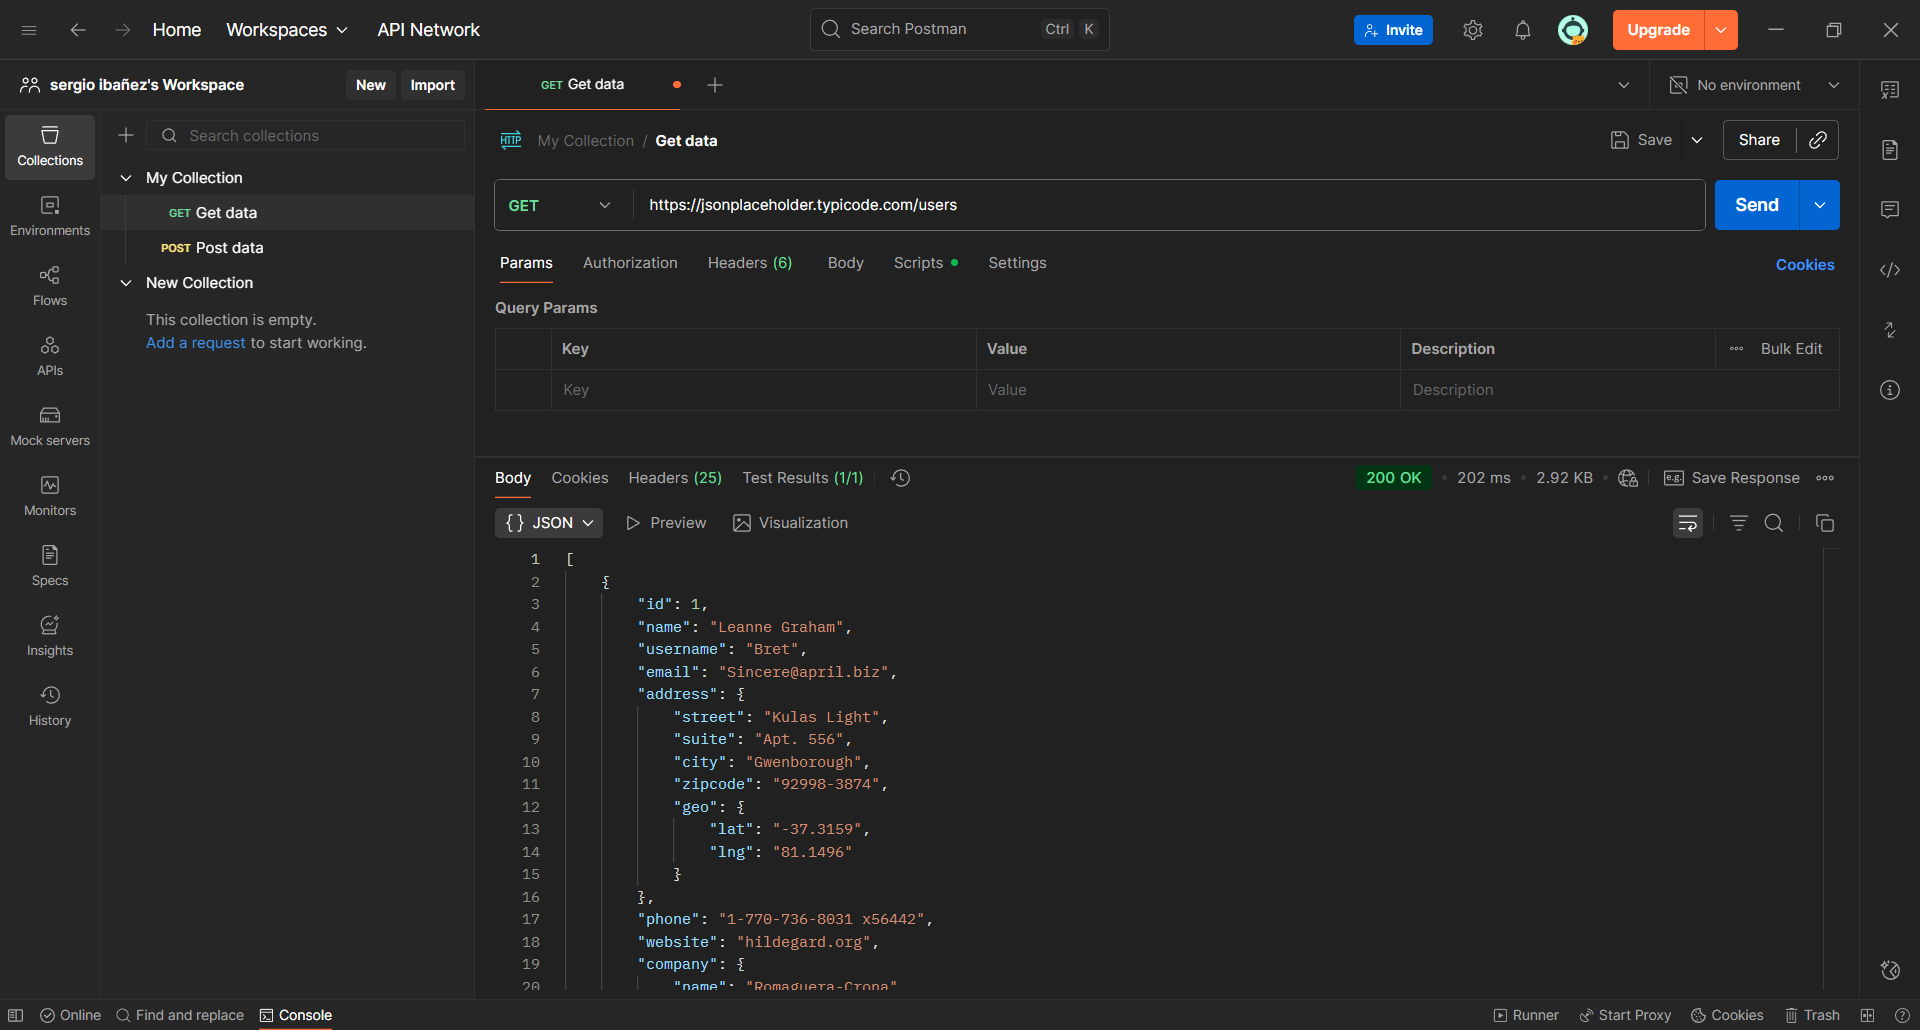
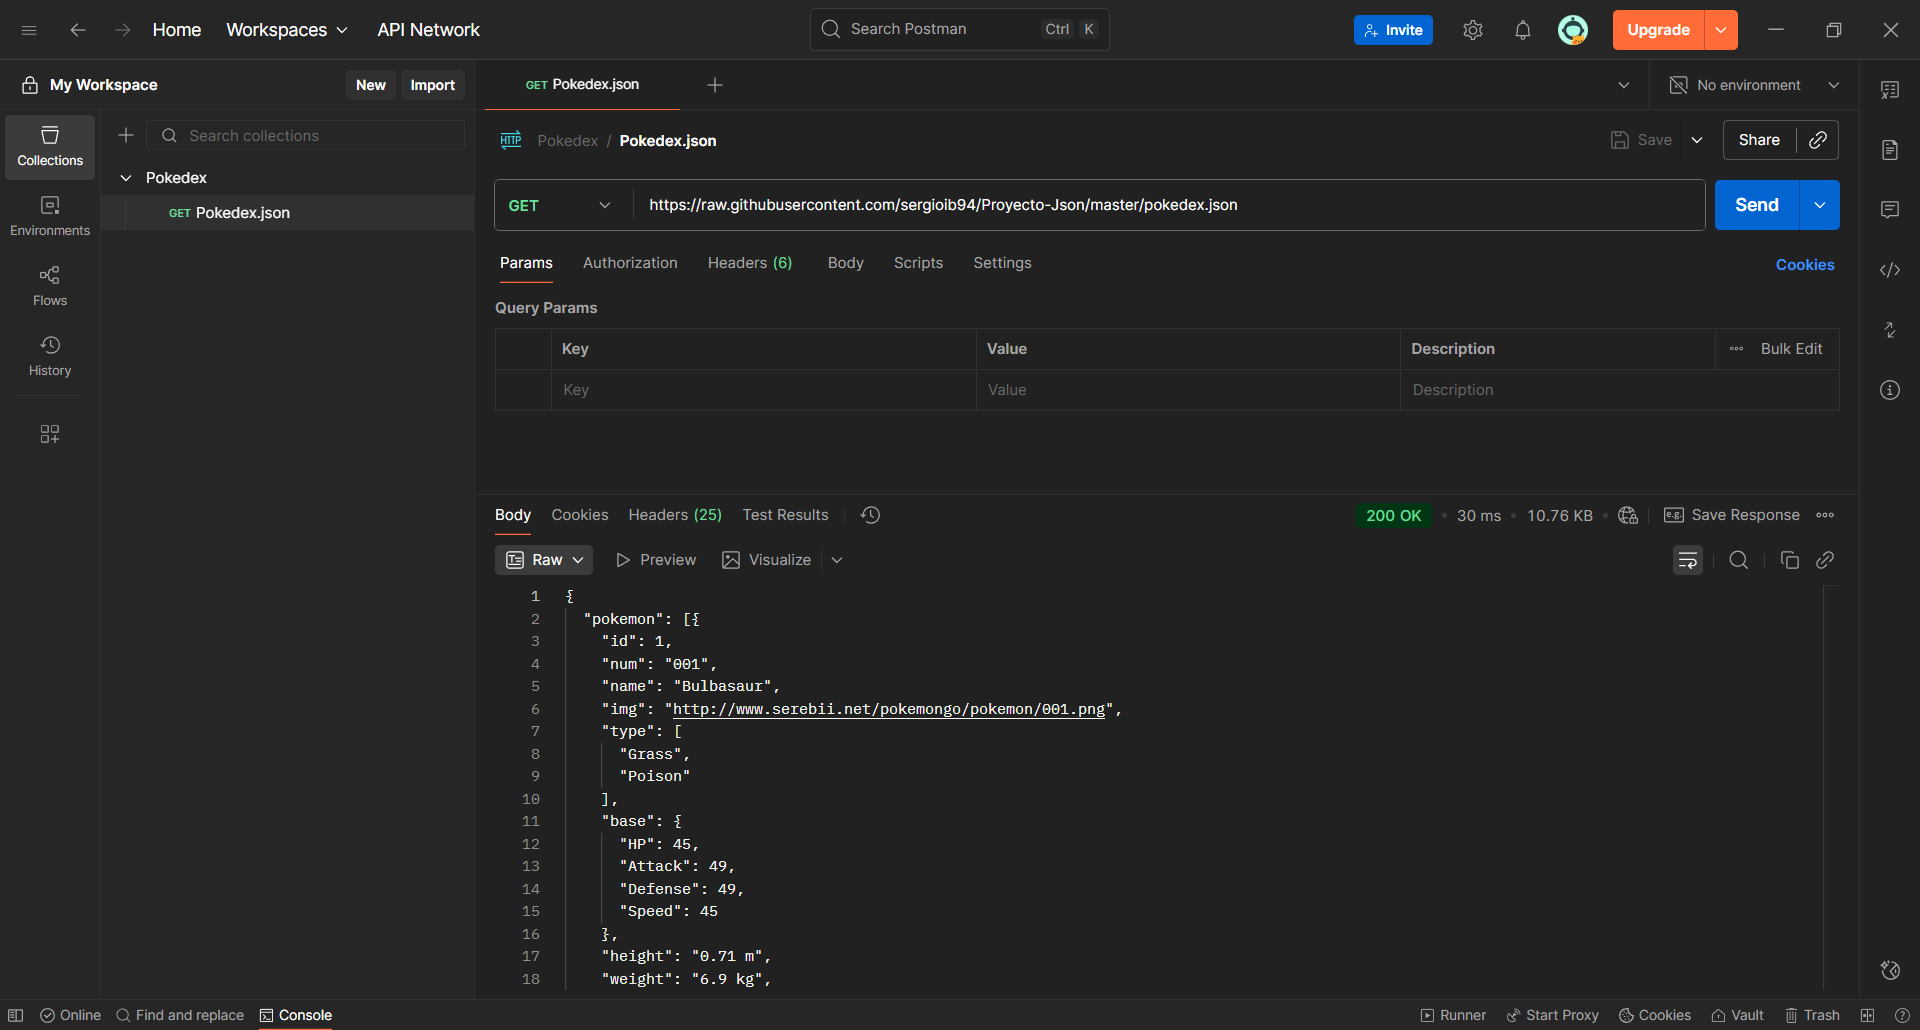
actualizacion

diff --git a/_posts/2025-10-28-Introduccion-a-Postman-I.md b/_posts/2025-10-28-Introduccion-a-Postman-I.md
@@ -118,15 +118,6 @@ Aunque Postman es la más popular, existen otras opciones como:
 
 ### Colecciones y variables ###
 
-Enviando nuestra primera petición con Postman (paso a paso)
-
-* Abrir Postman → New → Request.
-* Nombre: GET Users. Guardar en colección Mi API.
-* URL: https://jsonplaceholder.typicode.com/users. Método: GET.
-* Click Send → verás respuesta JSON, headers y status.
-
-![primera peticion](/assets/images/Postman/primer_get.PNG)
-
 **¿Qué son las colecciones?**
 
 Las colecciones agrupa varias peticiones relacionadas bajo un mismo proyecto. Permite organizar, reutilizar y compartir fácilmente las pruebas.
@@ -137,9 +128,18 @@ Usos comunes:
 * Añadir documentación y ejemplos.
 * Preparar escenarios de pruebas para Collection Runner.
 
+A continuación se mostrara una prueba de envío de primera petición con Postman (paso a paso). Para este ejemplo se va a usar la URL de un documento .json alojado en mi github [pokedex.json](https://raw.githubusercontent.com/sergioib94/Proyecto-Json/master/pokedex.json)
+
+* Abrir Postman → New → Request.
+* Nombre: GET Users. Guardar en colección Mi API.
+* URL: https://raw.githubusercontent.com/sergioib94/Proyecto-Json/master/pokedex.json. Método: GET.
+* Click Send → verás respuesta JSON, headers y status.
+
+![primera peticion](/assets/images/Postman/primer_get.PNG)
+
 **Entornos (Environments)**
 
-Los entornos permiten definir variables globales o específicas (por ejemplo, `{{url_base}}` o `{{token}}`).  
+Los entornos permiten definir variables globales o específicas (por ejemplo, {{url_base}} o {{token}}).  
 Así puedes cambiar entre entorno de desarrollo, pruebas o producción sin modificar cada petición.
 
 ~~~
@@ -161,10 +161,8 @@ Ejemplo de variables:
 Haciendo uso de postman podemos crear variables de la siguiente forma
 
 * En el sidebar izquierdo accedemos al apartado environments y seleccionamos el "+"
-* Añade una nueva variable por ejemplo: (base_url → https://jsonplaceholder.typicode.com).
+* Añade una nueva variable por ejemplo: (base_url → https://raw.githubusercontent.com/sergioib94/Proyecto-Json/master/pokedex.json).
 * Guarda y selecciona el entorno activo.
-
-![ejemplo de variable](/assets/images/Postman/variable.PNG)
 
 ### Conclusión ###
 En esta primera parte has aprendido:
